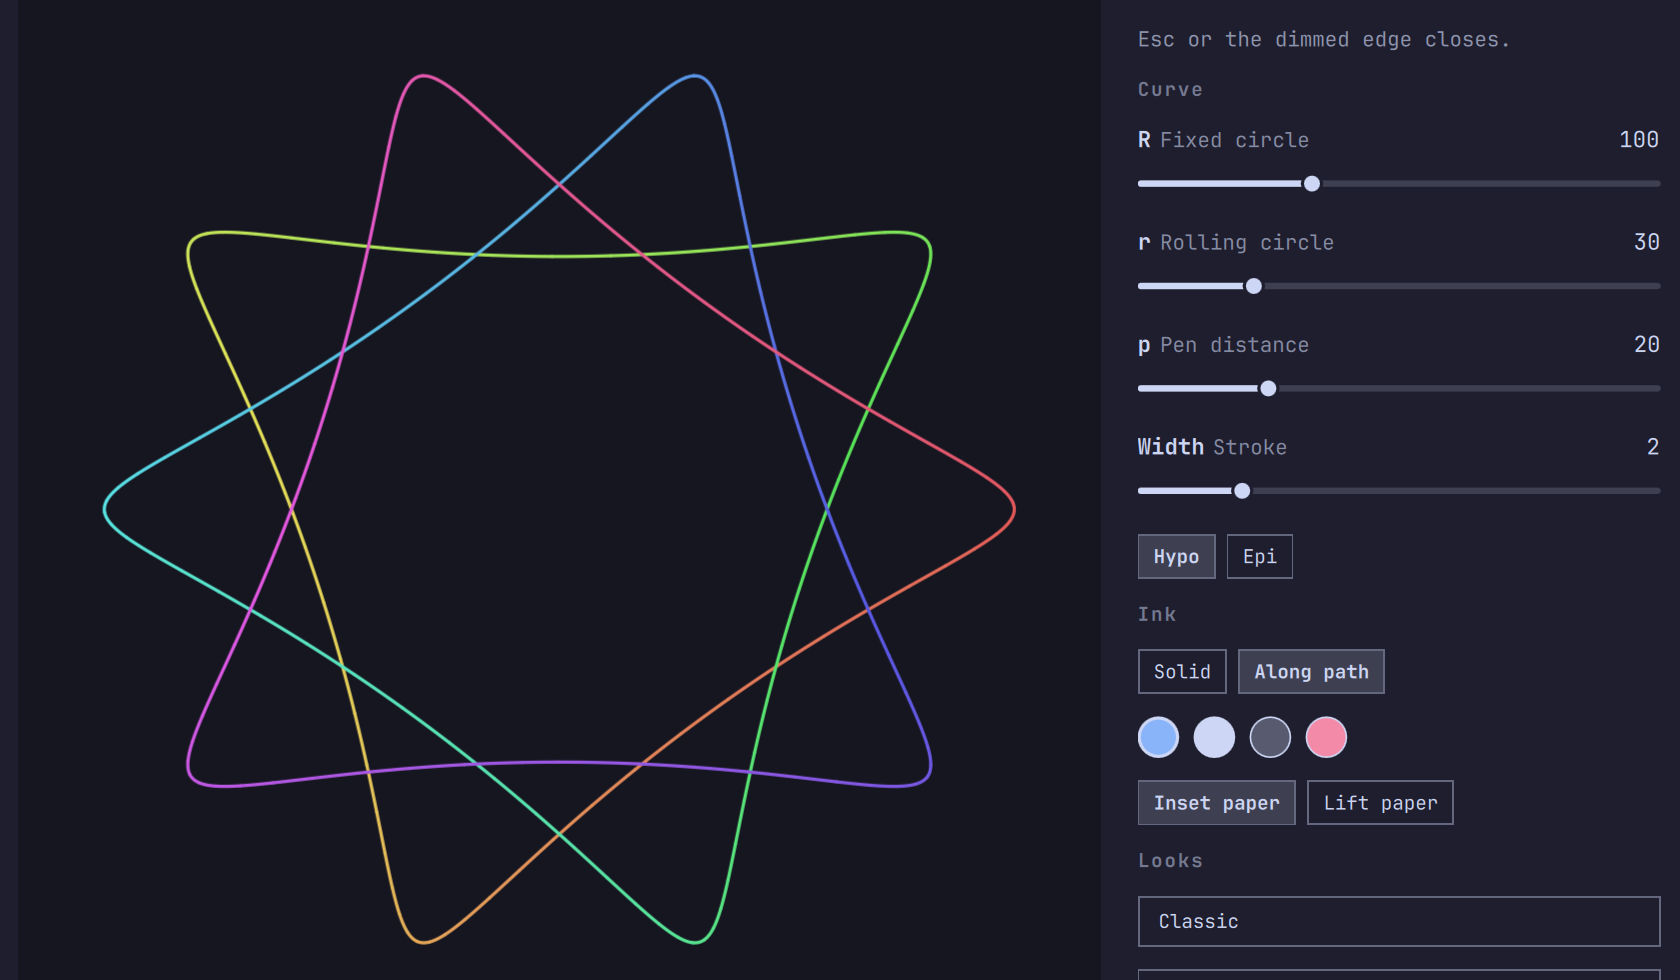
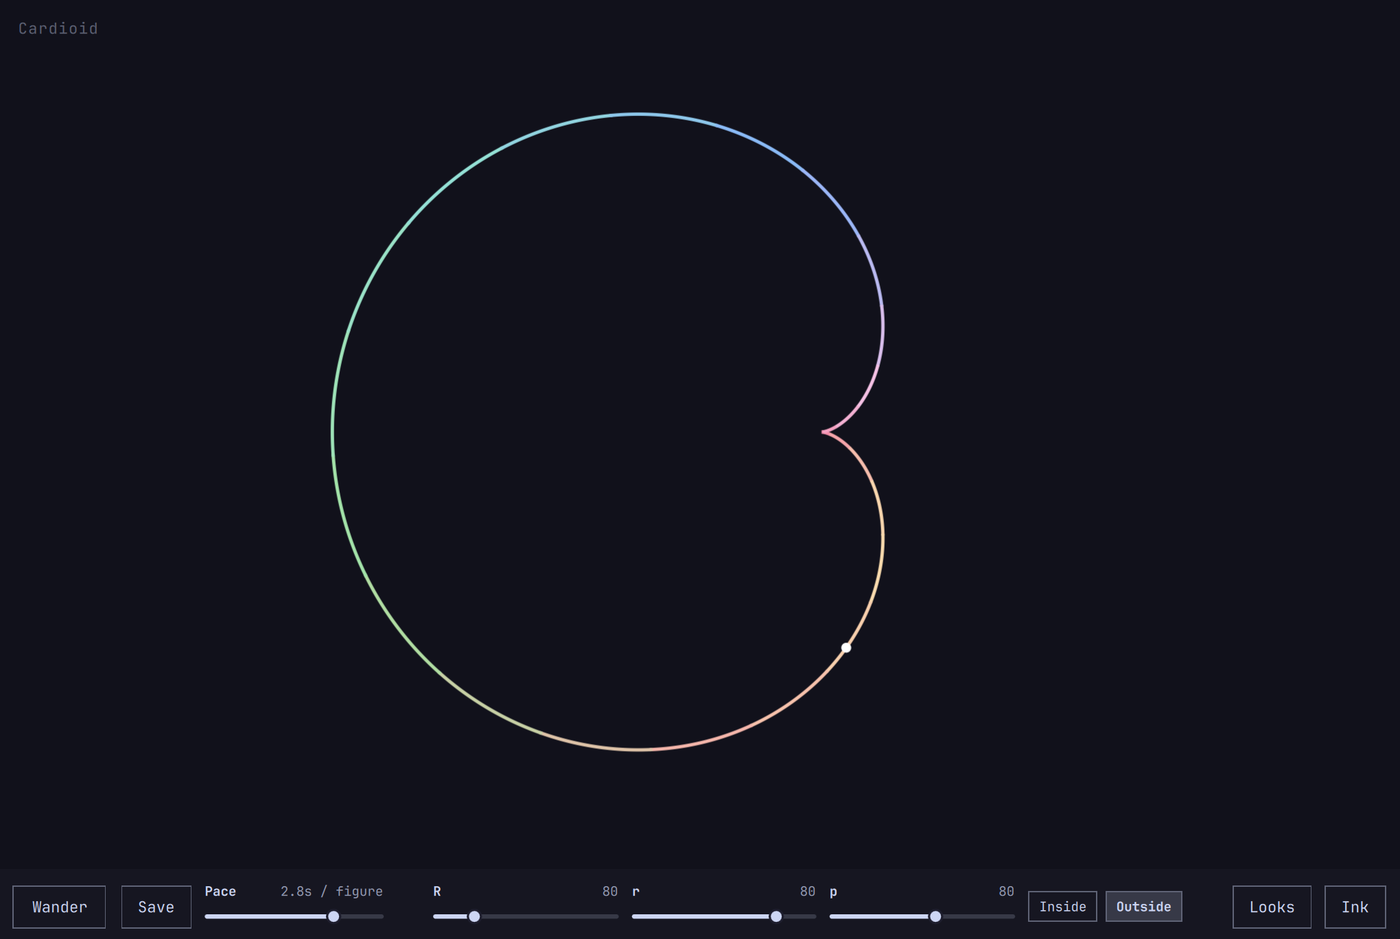
Prep 1.4.0 for listing: docs, preview, Keep as ghost layers.
README matches the bar. preview.png is the current overlay. Keep holds up
to four thinned previous figures; Qt Canvas does not keep pixels between
paints. Public git URL still a placeholder.

diff --git a/Overlay.qml b/Overlay.qml
@@ -17,6 +17,7 @@ Item {
   property bool opened: false
   property bool popoutSwitchClosing: false
   property bool applyingStore: false
+  property bool writingStore: false
   property bool wandering: false
   property bool wanderHolding: false
   property real holdUntil: 0
@@ -87,8 +88,10 @@ Item {
     })
   }
 
-  function applyLook(look, preservePace) {
+  function applyLook(look, preservePace, fromStore) {
     var next = Curve.copyLook(look)
+    var sameCurve = next.fixedR === root.fixedR && next.rollingR === root.rollingR &&
+                    next.penP === root.penP && next.epi === root.epi
     root.applyingStore = true
     root.fixedR = next.fixedR
     root.rollingR = next.rollingR
@@ -103,19 +106,26 @@ Item {
       root.keepLayers = next.keepLayers
     }
     root.applyingStore = false
-    root.wanderHolding = false
-    root.startPen()
-    if (!root.wandering)
+    if (sameCurve) {
+      if (root.opened)
+        canvas.requestPaint()
+    } else {
+      root.wanderHolding = false
+      root.startPen()
+    }
+    if (!fromStore && !root.wandering)
       persistTimer.restart()
   }
 
   function persistNow() {
-    if (root.applyingStore || root.wandering)
+    if (root.applyingStore || root.wandering || root.writingStore)
       return
+    root.writingStore = true
     storeFile.setText(Curve.serializeStore({
       last: root.currentLook(),
       favorites: root.favorites
     }))
+    Qt.callLater(function() { root.writingStore = false })
   }
 
   function saveFavorite() {
@@ -163,7 +173,6 @@ Item {
     next.push({
       pts: Curve.thinPoints(pts.slice(0, n), 280),
       inkMode: root.inkMode,
-      strokeKey: root.strokeKey,
       lineWidth: root.lineWidth
     })
     if (next.length > 4)
@@ -278,8 +287,8 @@ Item {
   onRollingRChanged: { root.rebuildLivePts(); persistTimer.restart() }
   onPenPChanged: { root.rebuildLivePts(); persistTimer.restart() }
   onEpiChanged: { root.rebuildLivePts(); persistTimer.restart() }
-  onLineWidthChanged: persistTimer.restart()
-  onInkModeChanged: persistTimer.restart()
+  onLineWidthChanged: { persistTimer.restart(); if (root.opened) canvas.requestPaint() }
+  onInkModeChanged: { persistTimer.restart(); if (root.opened) canvas.requestPaint() }
   onStrokeKeyChanged: persistTimer.restart()
   onPaperChanged: persistTimer.restart()
   onDrawSpeedChanged: persistTimer.restart()
@@ -287,6 +296,8 @@ Item {
     if (!root.keepLayers)
       root.ghosts = []
     persistTimer.restart()
+    if (root.opened)
+      canvas.requestPaint()
   }
 
   Timer {
@@ -332,15 +343,21 @@ Item {
     atomicWrites: true
     printErrors: false
     onLoaded: {
+      if (root.writingStore)
+        return
       var store = Curve.parseStore(text())
       root.favorites = store.favorites
       if (store.last)
-        root.applyLook(store.last, false)
+        root.applyLook(store.last, false, true)
     }
     onLoadFailed: {
       root.favorites = []
     }
-    onFileChanged: reload()
+    onFileChanged: {
+      if (root.writingStore)
+        return
+      reload()
+    }
   }
 
   FileView {
@@ -468,14 +485,13 @@ Item {
                 ctx.globalAlpha = 1
               }
 
-              function strokeInk(pts, n, mode, width, alpha) {
+              function strokeInk(pts, n, mode, width) {
                 if (!pts || n < 2) return
+                ctx.lineWidth = width
                 var segs = Math.min(24, n - 1)
                 var stride = Math.max(1, Math.floor((n - 1) / segs))
-                ctx.globalAlpha = alpha
-                ctx.lineWidth = width
                 for (var s = 0; s < n - 1; s += stride) {
-                  var end = Math.min(n - 1, s + stride)
+                  var end = Math.min(n - 1, s + stride + 1)
                   ctx.beginPath()
                   ctx.strokeStyle = strokeColor(mode, s / Math.max(1, n - 1))
                   ctx.moveTo(pts[s].x, pts[s].y)
@@ -483,13 +499,12 @@ Item {
                     ctx.lineTo(pts[j].x, pts[j].y)
                   ctx.stroke()
                 }
-                ctx.globalAlpha = 1
               }
 
               var ghosts = root.ghosts
               for (var g = 0; g < ghosts.length; g++) {
                 var ghost = ghosts[g]
-                var fade = 0.04 + 0.05 * (g / Math.max(1, ghosts.length))
+                var fade = 0.08 + 0.06 * (g / Math.max(1, ghosts.length))
                 strokePoly(ghost.pts, ghost.pts.length, ghost.lineWidth, fade,
                            strokeColor(ghost.inkMode, 0.35))
               }
@@ -497,10 +512,8 @@ Item {
               var pts = root.livePts
               if (!pts || pts.length < 2)
                 return
-              var trail = Math.min(1, root.penT)
-              var n = Curve.visibleCount(pts.length, trail)
-              strokePoly(pts, n, root.lineWidth * 4, 0.12, strokeColor(root.inkMode, 0.5))
-              strokeInk(pts, n, root.inkMode, root.lineWidth, 1)
+              var n = Curve.visibleCount(pts.length, Math.min(1, root.penT))
+              strokeInk(pts, n, root.inkMode, root.lineWidth)
 
               var tipFrac = root.penT % 1
               if (tipFrac === 0 && root.penT > 0)
@@ -509,7 +522,7 @@ Item {
               var tip = pts[tipAt - 1]
               ctx.fillStyle = "#ffffff"
               ctx.beginPath()
-              ctx.arc(tip.x, tip.y, Math.max(3.5, root.lineWidth + 2), 0, Math.PI * 2)
+              ctx.arc(tip.x, tip.y, Math.max(3, root.lineWidth + 1.5), 0, Math.PI * 2)
               ctx.fill()
             }
           }

diff --git a/Quattrograph.js b/Quattrograph.js
@@ -311,7 +311,7 @@ function nextFavoriteName(favorites) {
 
 function sampleBudget(loops) {
   loops = Math.max(1, Number(loops) || 1)
-  return Math.max(720, Math.min(1600, Math.round(loops * 48)))
+  return Math.max(1000, Math.min(2200, Math.round(loops * 64)))
 }
 
 function thinPoints(pts, cap) {

diff --git a/README.md b/README.md
@@ -1,6 +1,6 @@
 # Quattrograph
 
-A small Omarchy drawing toy. The curve draws itself on a full sheet of paper. **Wander** plays named looks, **Save** keeps one, and a tool rest along the bottom holds pace and the live sliders. Looks and ink sit in popovers, not a scrolling menu.
+A small Omarchy drawing toy. A hypotrochoid traces itself on a sheet of paper. **Wander** plays named looks, **Save** keeps one, and a tool rest along the bottom holds pace and the live sliders.
 
 ## Install
 
@@ -9,7 +9,11 @@ omarchy plugin add https://github.com/<you>/quattrograph.git --enable
 omarchy plugin enable richardb-quattrograph --section right
 ```
 
-Click **QG** on the bar. Esc or the dimmed edge closes it. Space toggles Wander; S saves. **Inside** rolls in the fixed circle; **Outside** rolls around it. **Looks** and **Ink** open up from the bar. Ink is **Theme** (the current palette along the path) or **Rainbow**.
+Click **QG** on the bar. Esc or the dimmed edge closes it. Space toggles Wander; S saves.
+
+**Inside** rolls the circle inside the fixed one. **Outside** rolls around it. **Looks** and **Ink** open up from the bar.
+
+Ink is **Theme** (the current theme palette along the path) or **Rainbow**. **Keep** holds up to four previous figures on the paper; **Wipe** clears them.
 
 You can also summon it:
 
